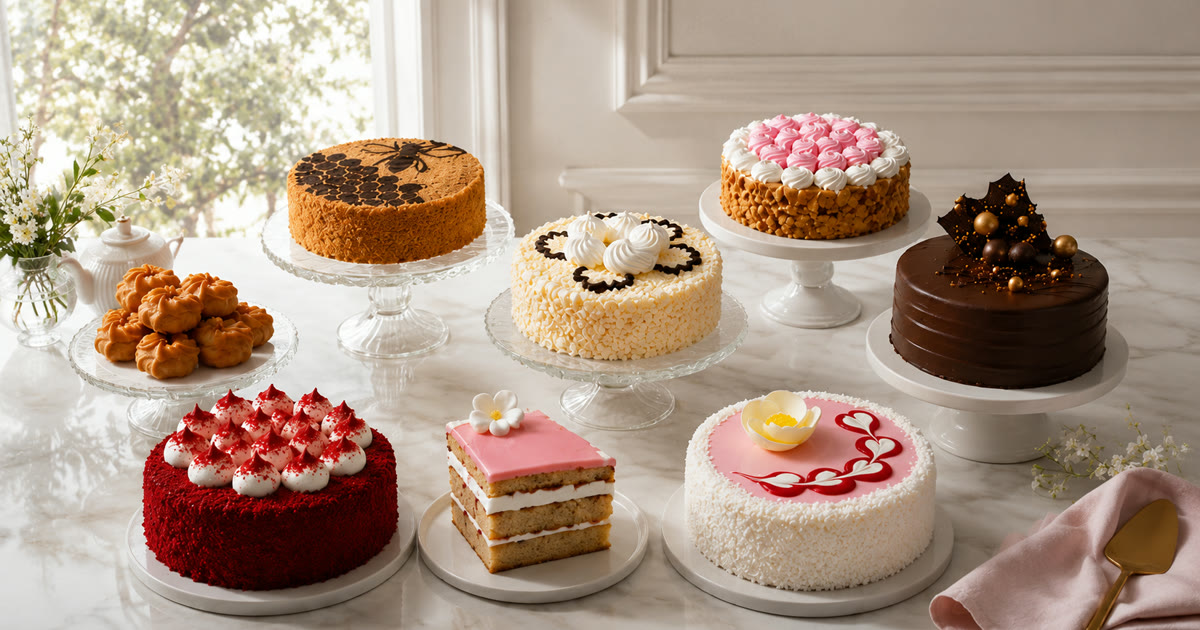
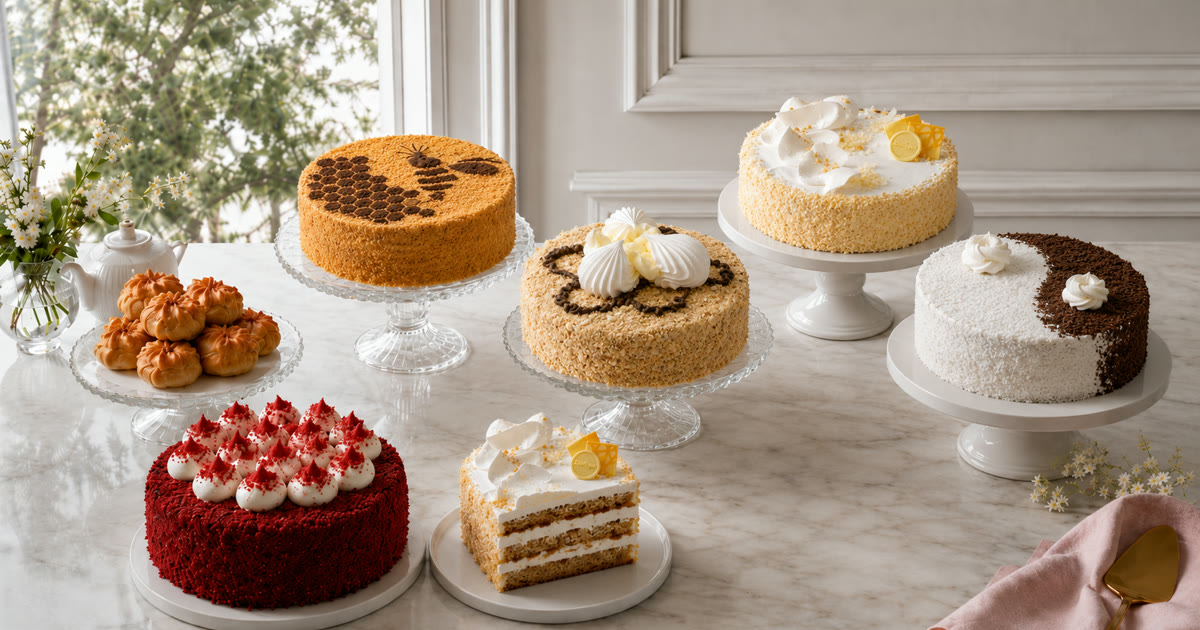
Новые hero-картинки (десктоп/моб) + обновление og:image
- again_hero_desktop.webp и again_hero_mobile.webp
- og-image.jpg пересобран из нового hero для превью в соцсетях

diff --git a/styles.css b/styles.css
@@ -479,7 +479,7 @@ body.is-footer-visible .header {
   padding: 200px 80px 88px;
   background:
     linear-gradient(180deg, rgba(0, 0, 0, 0.18) 0%, rgba(0, 0, 0, 0.28) 100%),
-    url("./assets/webp/finale_hero_background.webp") no-repeat center / cover;
+    url("./assets/webp/again_hero_desktop.webp") no-repeat center / cover;
   overflow: hidden;
 }
 
@@ -2144,7 +2144,7 @@ a.footer__contact:hover {
     justify-content: center;
     background:
       linear-gradient(180deg, rgba(0, 0, 0, 0.18) 0%, rgba(0, 0, 0, 0.28) 100%),
-      url("./assets/webp/finale_hero_background_mob.webp") no-repeat center / cover;
+      url("./assets/webp/again_hero_mobile.webp") no-repeat center / cover;
   }
 
   .hero-content {